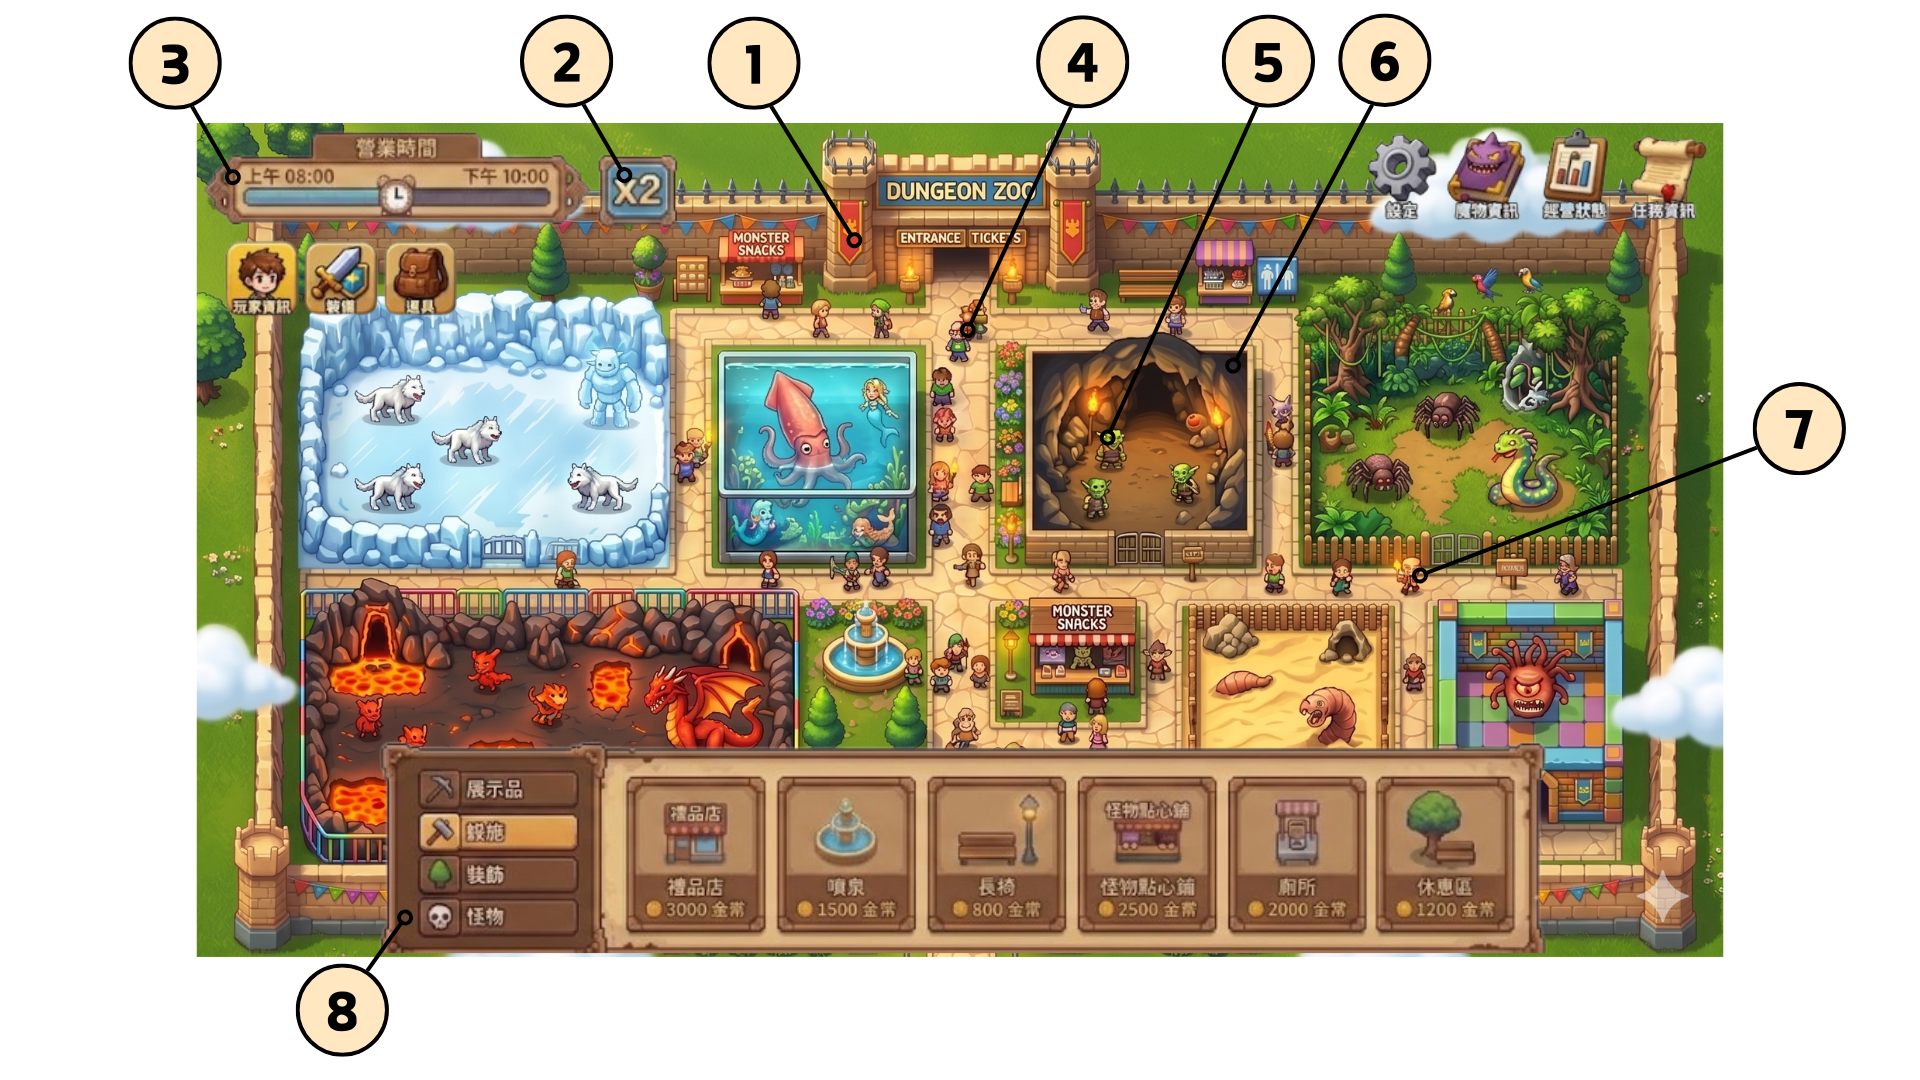
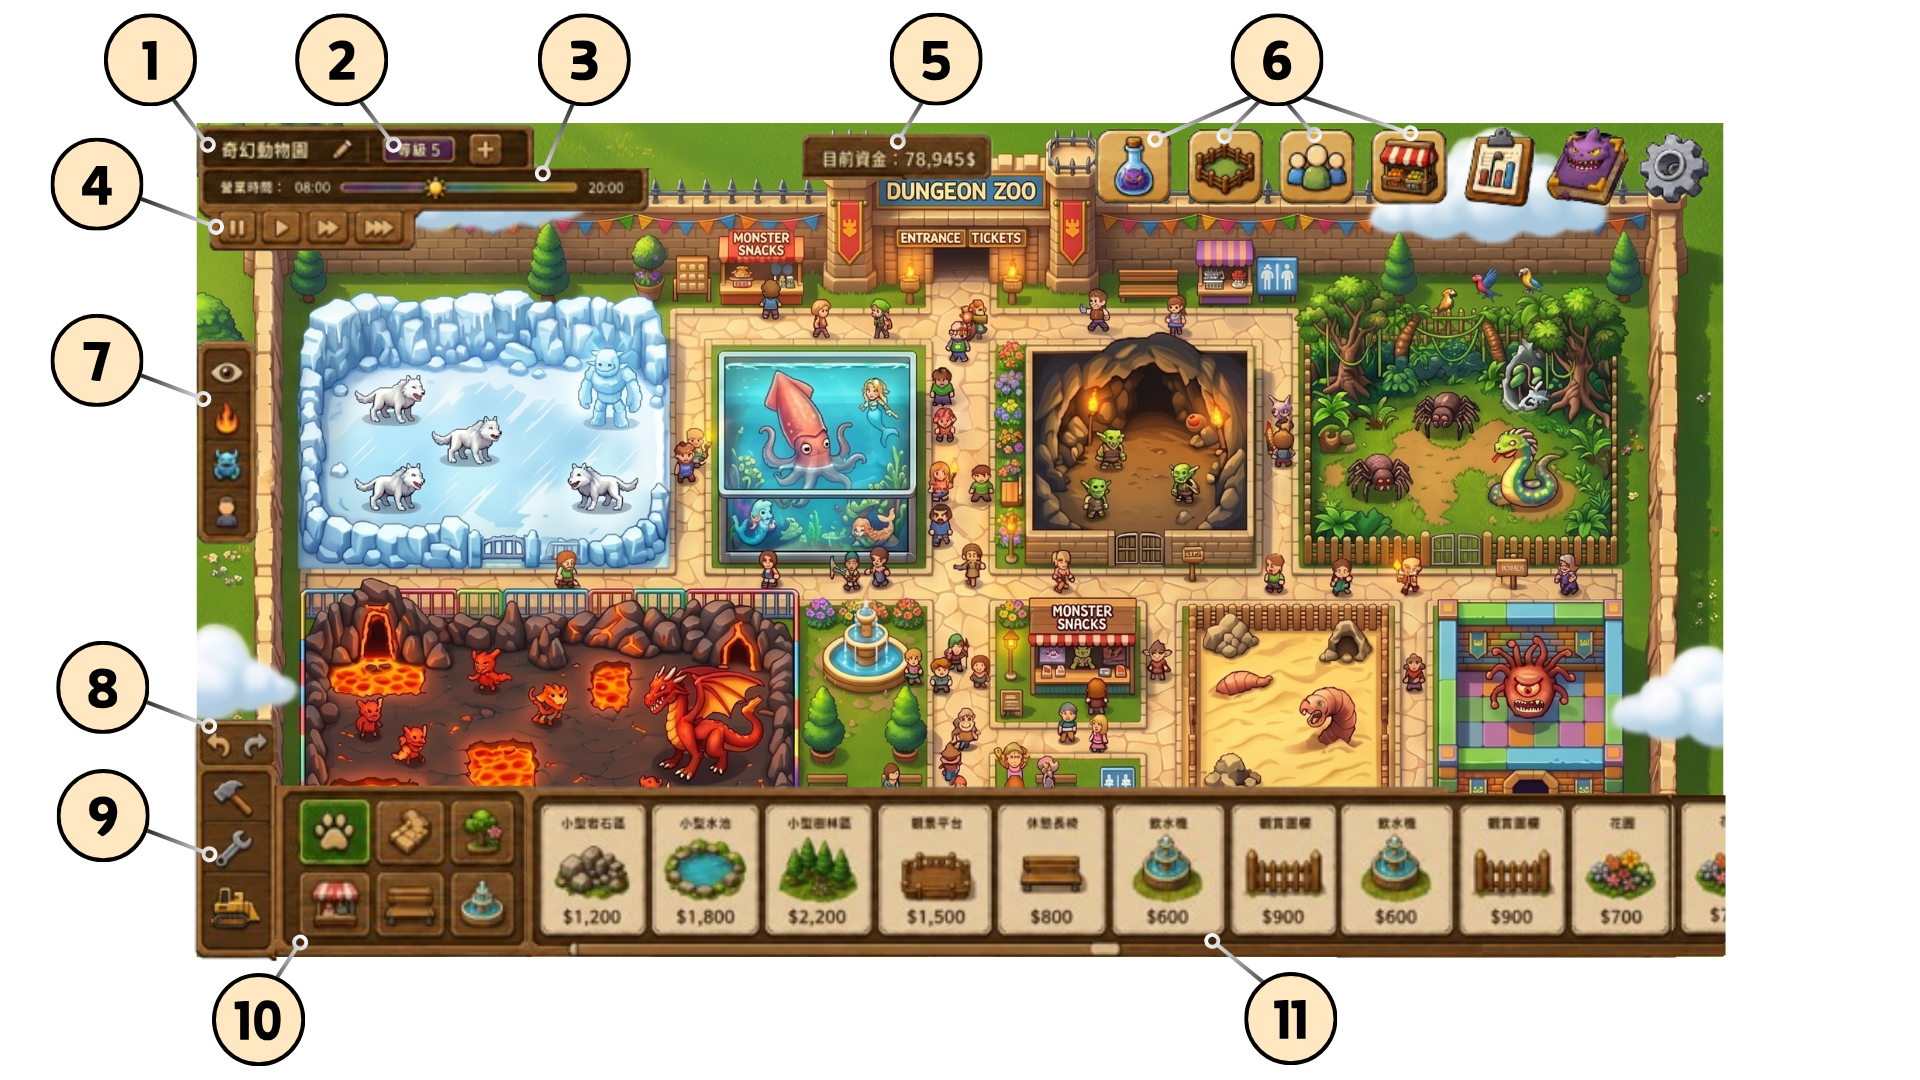
1.更換 基本設計(動物園經營) 示意圖  2.撰寫 基本設計(動物園經營) 規格(編號1)

diff --git a/基本設計(動物園經營).md b/基本設計(動物園經營).md
@@ -1,1 +1,13 @@
 ![[zoo_management.png]]
+## 【各區塊設計】
+## ① 動物園名稱及編輯按鈕 -------------------------------------
+展示玩家當前動物園的自訂名稱，並提供隨時修改的管道，以強化經營專屬園區的沉浸感。此元件之設定將全域影響遊戲內所有提及該動物園名稱的系統。
+### 功能與修改機制
+- **預設名稱**：遊戲開局時，系統會自動賦予動物園一個預設名稱（如：海角園區 或 北方園區）。
+- **修改成本**：點擊編輯按鈕可隨時開啟命名彈出視窗，此操作不消耗任何遊戲資源（金幣或特殊素材），允許玩家無限次免費修改。
+- **取消行為判定**：若玩家點擊命名視窗外部的空白區域，或按下鍵盤 `Esc` 鍵，系統將視同「取消」操作，關閉彈出視窗且文字還原為修改前的名稱。
+### 防呆與還原機制
+- **極端字串處理**：若玩家將視窗內的文字完全刪除，或是僅輸入純空白字元（無論全形或半形）便按下「確認」，系統將啟動防呆機制，自動將名稱還原為「預設名稱」。
+### 時間狀態控制
+- **遊戲時間暫停**：當玩家點擊編輯按鈕開啟輸入視窗時，遊戲時間將會自動「暫停」（其行為與編號 4 的暫停按鈕完全一致）。
+- **流速恢復判定**：當玩家點擊「確認」或「取消」關閉命名視窗並返回遊戲畫面後，遊戲將自動恢復到「暫停前的時間流速」（例如暫停前為三倍速，關閉視窗後即恢復為三倍速）。
